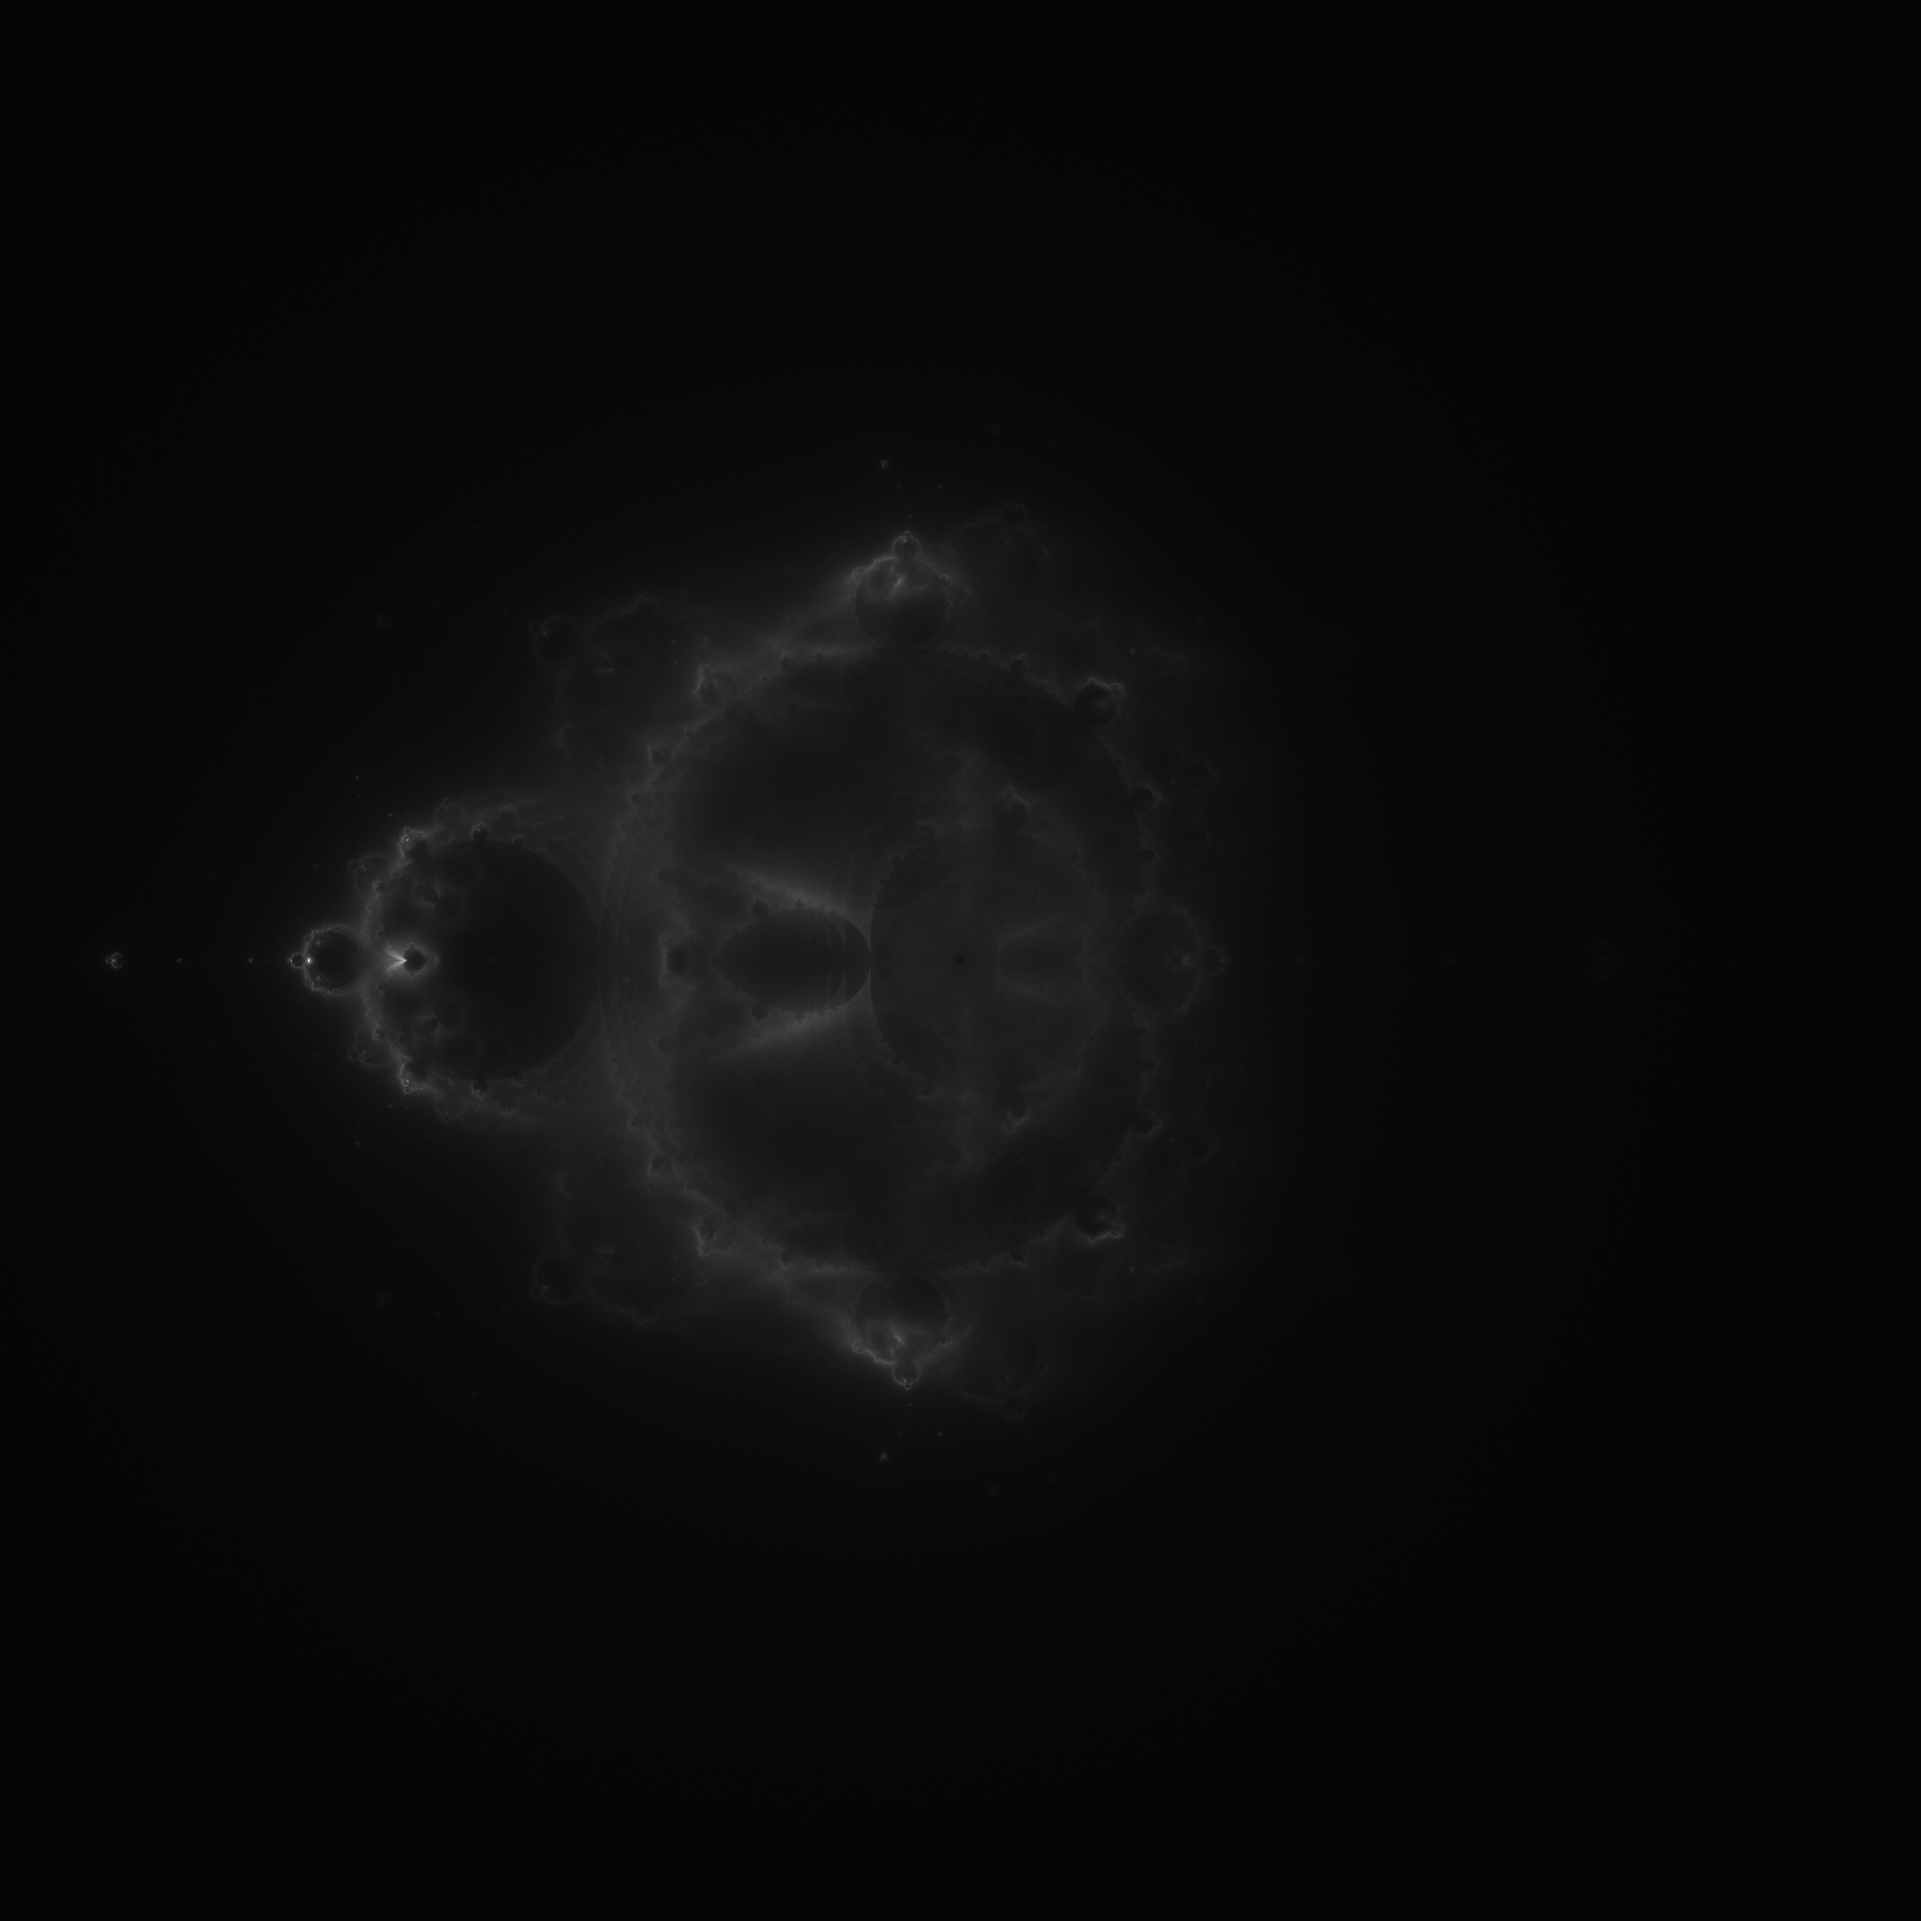
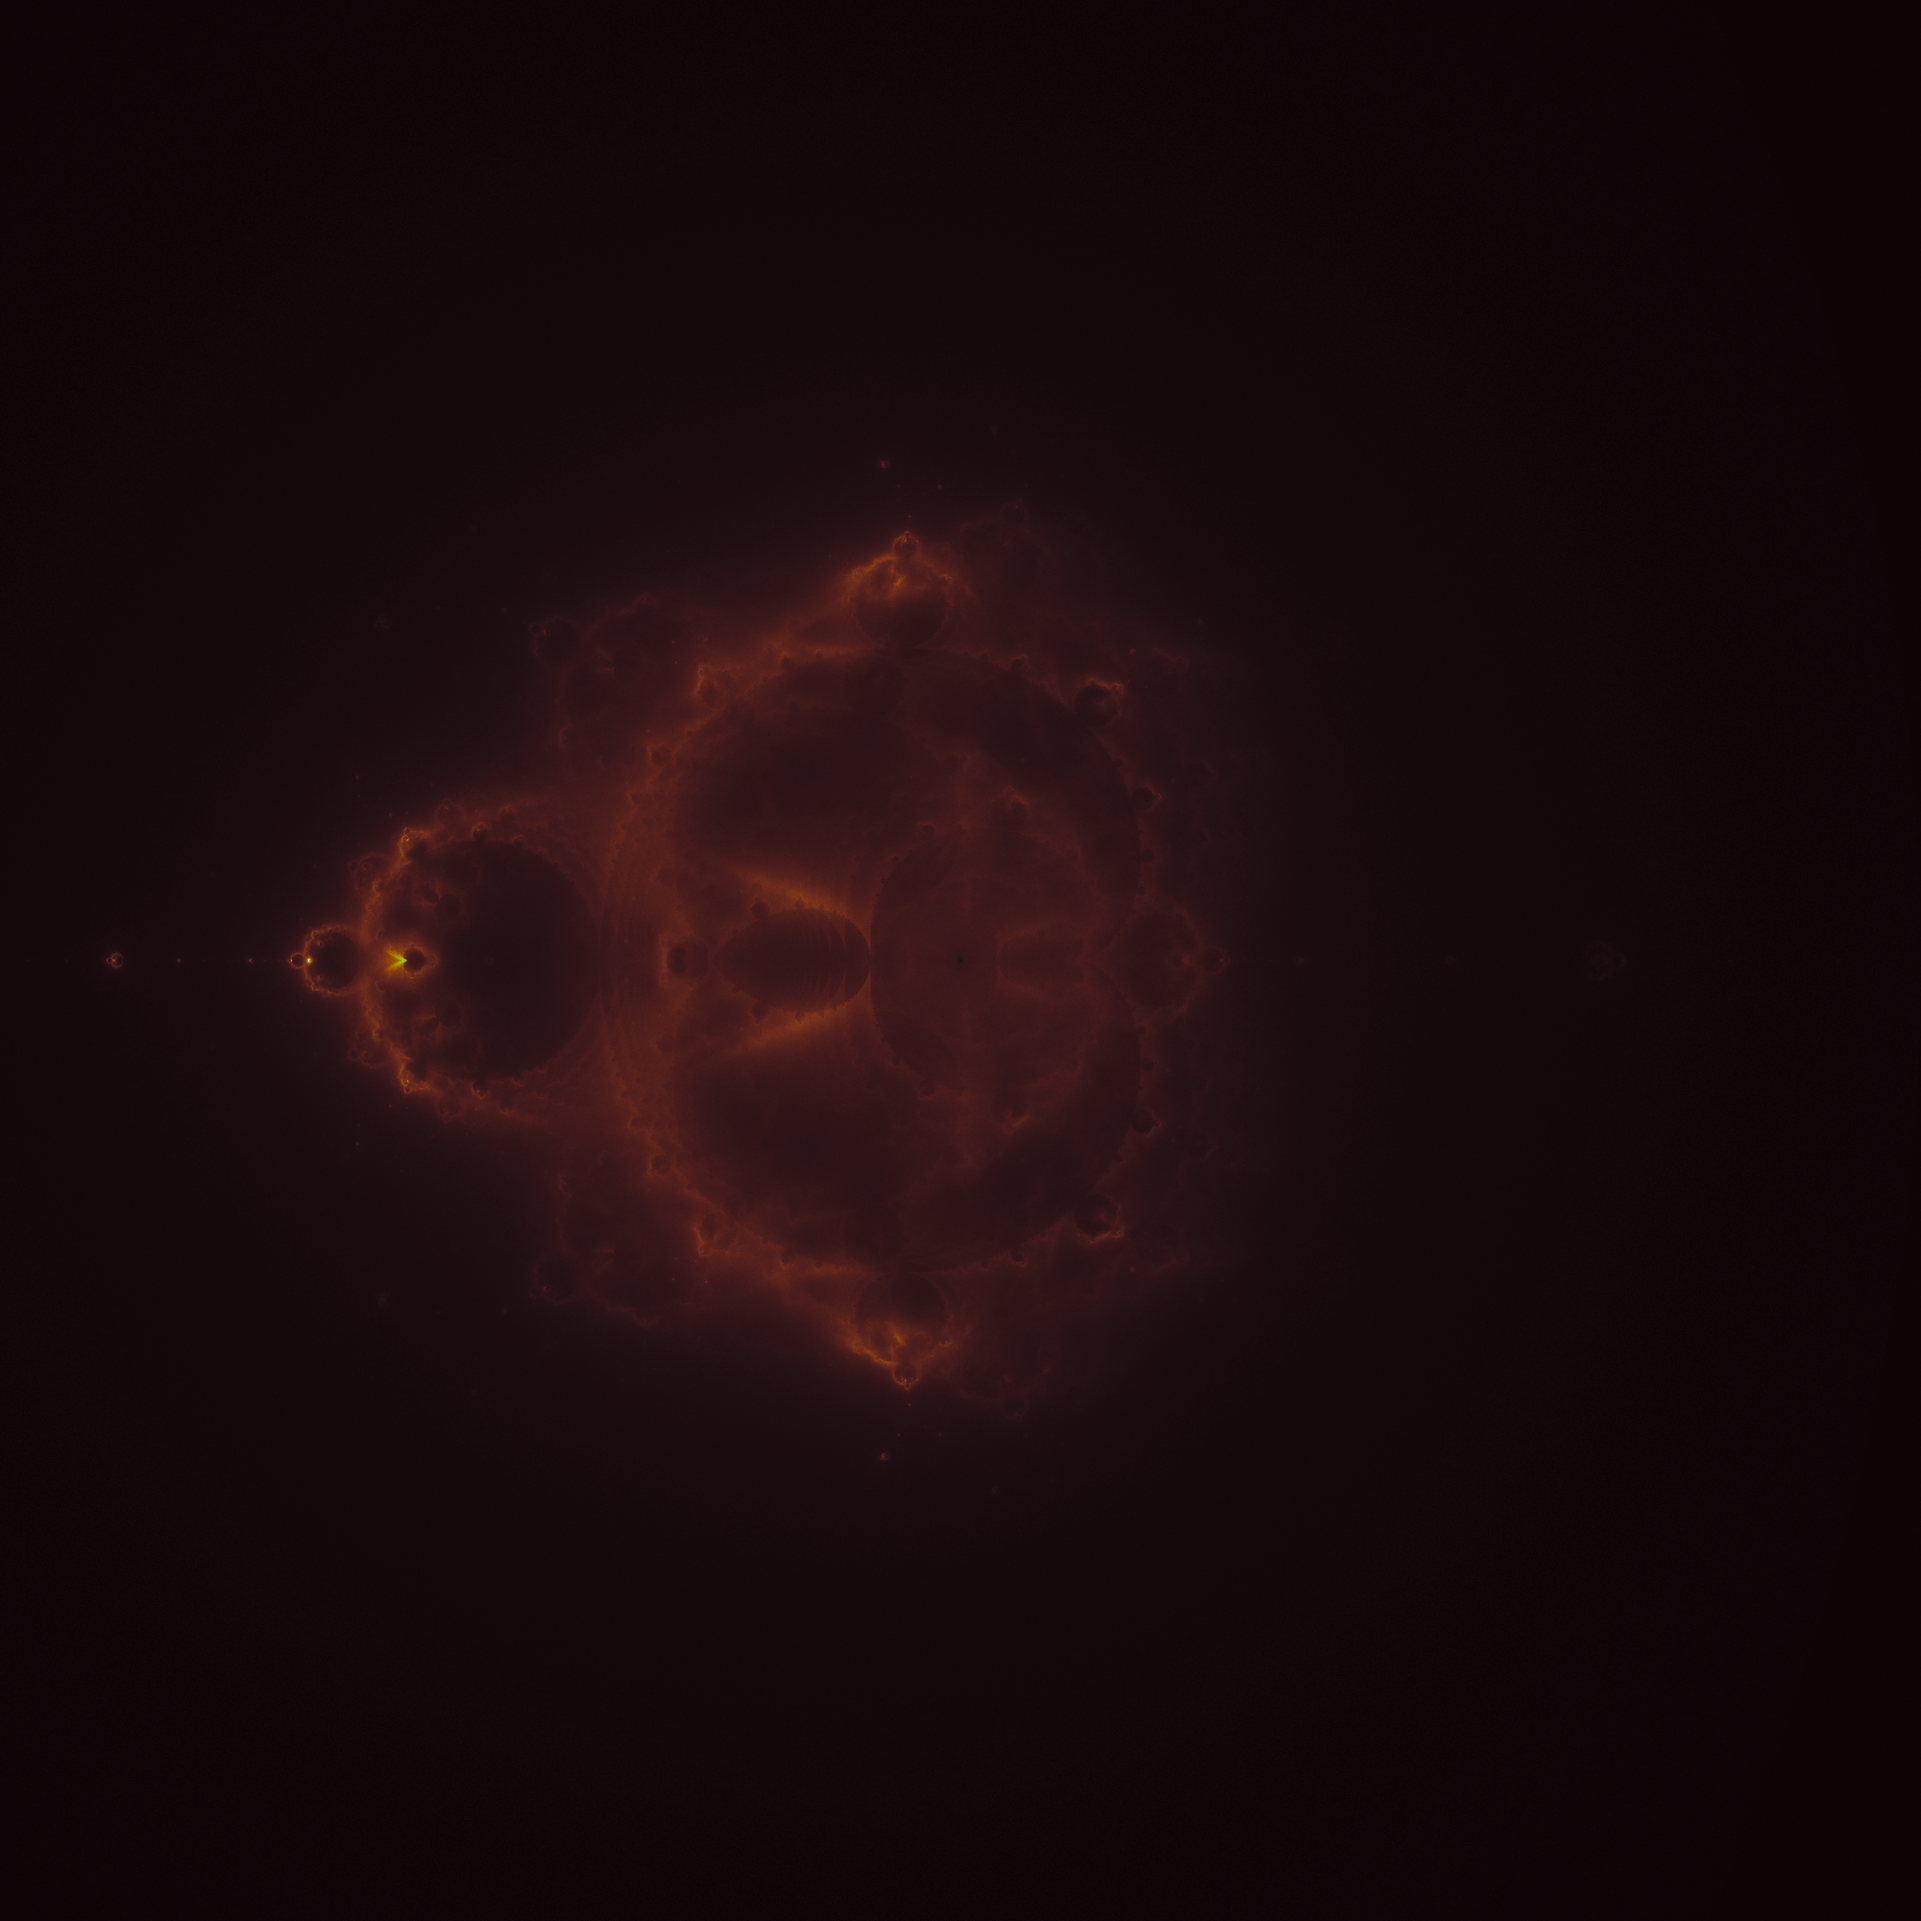
Color plots with a gradient.

Changed region(s): [[0.155, 0.248, 0.651, 0.744]]

diff --git a/gradient/gradient.go b/gradient/gradient.go
@@ -1,0 +1,59 @@
+// Package gradient defines functionality for generating linear color gradients.
+
+package gradient
+
+import (
+	"image/color"
+	"math"
+
+	"github.com/lucasb-eyer/go-colorful"
+)
+
+// This code used the gradient example from Lucas Beyer's excellent
+// go-colorful library.
+type stop struct {
+	col colorful.Color
+	pos float64
+}
+
+type gradientTable []stop
+
+func GetGradient(stops []Stop, count int) []color.RGBA {
+	t := gradientTable{}
+	p := []color.RGBA{}
+	for _, s := range stops {
+		c, err := colorful.Hex(s.Color)
+		if err != nil {
+			panic("GetGradient: " + err.Error())
+		}
+		t = append(t, stop{col: c, pos: s.Position})
+	}
+
+	for i := 0; i < count; i++ {
+		// TODO:: fix an off-by-one error here that prevents the stop at 1.0
+		// from being the last color in the resulting slice.
+		col := t.getInterpolatedColor(float64(i) / float64(count))
+		p = append(p, color.RGBA{
+			R: uint8(math.MaxUint8 * col.R),
+			G: uint8(math.MaxUint8 * col.G),
+			B: uint8(math.MaxUint8 * col.B),
+			A: math.MaxUint8,
+		})
+	}
+	return p
+}
+
+func (gt gradientTable) getInterpolatedColor(t float64) colorful.Color {
+	for i := 0; i < len(gt)-1; i++ {
+		c1 := gt[i]
+		c2 := gt[i+1]
+		if c1.pos <= t && t <= c2.pos {
+			// Blend the two points we're between.
+			t := (t - c1.pos) / (c2.pos - c1.pos)
+			return c1.col.BlendHcl(c2.col, t).Clamped()
+		}
+	}
+
+	// We're not between any points, so return the last color.
+	return gt[len(gt)-1].col
+}

diff --git a/buddhabrot/buddhabrot.go b/buddhabrot/buddhabrot.go
@@ -3,13 +3,13 @@ package buddhabrot
 
 import (
 	"image"
-	"image/color"
 	"log"
 	"math"
 	"math/rand"
 	"sync"
 	"sync/atomic"
 
+	"github.com/ebeeton/buddhalbrot-go/gradient"
 	"github.com/ebeeton/buddhalbrot-go/parameters"
 	"github.com/ebeeton/buddhalbrot-go/timer"
 )
@@ -55,20 +55,18 @@ func Plot(plot parameters.Plot) (*image.RGBA, error) {
 	}
 	log.Println("Highest count:", max)
 
+	// Get the gradient palette used to color pixels based on hit count.
+	g := gradient.GetGradient(plot.Gradient, math.MaxUint8)
+
 	// Assign each pixel color channel a value based on how many times an orbit
 	// "passed through" it.
 	img := image.NewRGBA(image.Rect(0, 0, plot.Width, plot.Height))
 	pixelStride := img.Stride >> 2
 	for y := 0; y < plot.Height; y++ {
 		for x := 0; x < plot.Width; x++ {
-			idx := pixelStride*y + x
-			gray := uint8(float64(counter[idx]) / float64(max) * math.MaxUint8)
-			img.SetRGBA(x, y, color.RGBA{
-				R: gray,
-				G: gray,
-				B: gray,
-				A: math.MaxUint8,
-			})
+			cIdx := pixelStride*y + x
+			gIdx := uint8(float64(counter[cIdx]) / float64(max) * math.MaxUint8)
+			img.SetRGBA(x, y, g[gIdx])
 		}
 	}
 	log.Println("Plot complete.")

diff --git a/gradient/gradient_test.go b/gradient/gradient_test.go
@@ -1,0 +1,21 @@
+// Package gradient defines functionality for generating linear color gradients.
+
+package gradient
+
+import (
+	"testing"
+)
+
+func TestGetGradient(t *testing.T) {
+	stops := []Stop{
+		{Color: "#000000", Position: 0.0},
+		{Color: "#FFFFFF", Position: 1.0},
+	}
+
+	wantStops := 1000
+	g := GetGradient(stops, wantStops)
+
+	if len(g) != wantStops {
+		t.Errorf("Got stops %d, want %d.", len(g), wantStops)
+	}
+}

diff --git a/gradient/stop.go b/gradient/stop.go
@@ -6,5 +6,5 @@ package gradient
 // 0 to 1.
 type Stop struct {
 	Color    string
-	Position float32
+	Position float64
 }
